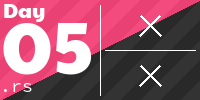
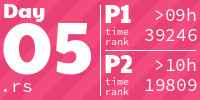
Day 5 add to readme

diff --git a/tiles/.aoc_tiles_cache/leaderboard2023.html b/tiles/.aoc_tiles_cache/leaderboard2023.html
@@ -87,15 +87,16 @@ If you'd like to hang out, I'm @ericwastl@hachyderm.io on Mastodon and
 
 -->
 <body>
-<header><div><h1 class="title-global"><a href="/">Advent of Code</a></h1><nav><ul><li><a href="/2023/about">[About]</a></li><li><a href="/2023/events">[Events]</a></li><li><a href="https://teespring.com/stores/advent-of-code" target="_blank">[Shop]</a></li><li><a href="/2023/settings">[Settings]</a></li><li><a href="/2023/auth/logout">[Log Out]</a></li></ul></nav><div class="user">Rietty <span class="star-count">8*</span></div></div><div><h1 class="title-event">&nbsp;&nbsp;&nbsp;<span class="title-event-wrap">sub y{</span><a href="/2023">2023</a><span class="title-event-wrap">}</span></h1><nav><ul><li><a href="/2023">[Calendar]</a></li><li><a href="/2023/support">[AoC++]</a></li><li><a href="/2023/sponsors">[Sponsors]</a></li><li><a href="/2023/leaderboard">[Leaderboard]</a></li><li><a href="/2023/stats">[Stats]</a></li></ul></nav></div></header>
+<header><div><h1 class="title-global"><a href="/">Advent of Code</a></h1><nav><ul><li><a href="/2023/about">[About]</a></li><li><a href="/2023/events">[Events]</a></li><li><a href="https://teespring.com/stores/advent-of-code" target="_blank">[Shop]</a></li><li><a href="/2023/settings">[Settings]</a></li><li><a href="/2023/auth/logout">[Log Out]</a></li></ul></nav><div class="user">Rietty <span class="star-count">10*</span></div></div><div><h1 class="title-event">&nbsp;&nbsp;&nbsp;&nbsp;&nbsp;&nbsp;&nbsp;<span class="title-event-wrap">y(</span><a href="/2023">2023</a><span class="title-event-wrap">)</span></h1><nav><ul><li><a href="/2023">[Calendar]</a></li><li><a href="/2023/support">[AoC++]</a></li><li><a href="/2023/sponsors">[Sponsors]</a></li><li><a href="/2023/leaderboard">[Leaderboard]</a></li><li><a href="/2023/stats">[Stats]</a></li></ul></nav></div></header>
 
 <div id="sidebar">
-<div id="sponsor"><div class="quiet">Our <a href="/2023/sponsors">sponsors</a> help make Advent of Code possible:</div><div class="sponsor"><a href="https://careers.bankofamerica.com/" target="_blank" onclick="if(ga)ga('send','event','sponsor','sidebar',this.href);" rel="noopener">Bank of America</a> - We use technology, models and data to make financial lives better for our clients and communities.</div></div>
+<div id="sponsor"><div class="quiet">Our <a href="/2023/sponsors">sponsors</a> help make Advent of Code possible:</div><div class="sponsor"><a href="https://www.zuehlke.com/en/careers" target="_blank" onclick="if(ga)ga('send','event','sponsor','sidebar',this.href);" rel="noopener">Zuehlke</a> - Empower ideas and join our global team of passionate developers.</div></div>
 </div><!--/sidebar-->
 
 <main>
 <article><p>These are your personal leaderboard times.  <em>Rank</em> is your position on that leaderboard: 1 means you were the first person to get that star, 2 means the second, 100 means the 100th, etc.  <em>Score</em> is the number of points you got for that rank: 100 for 1st, 99 for 2nd, ..., 1 for 100th, and 0 otherwise.</p><pre>      <span class="leaderboard-daydesc-first">--------Part 1--------</span>   <span class="leaderboard-daydesc-both">--------Part 2--------</span>
 Day   <span class="leaderboard-daydesc-first">    Time   Rank  Score</span>   <span class="leaderboard-daydesc-both">    Time   Rank  Score</span>
+  5   09:45:20  39246      0   10:11:26  19809      0
   4   09:52:07  57166      0   11:58:42  51721      0
   3   00:40:06   4531      0   00:41:43   2587      0
   2   00:42:03   9133      0   00:46:46   8239      0
